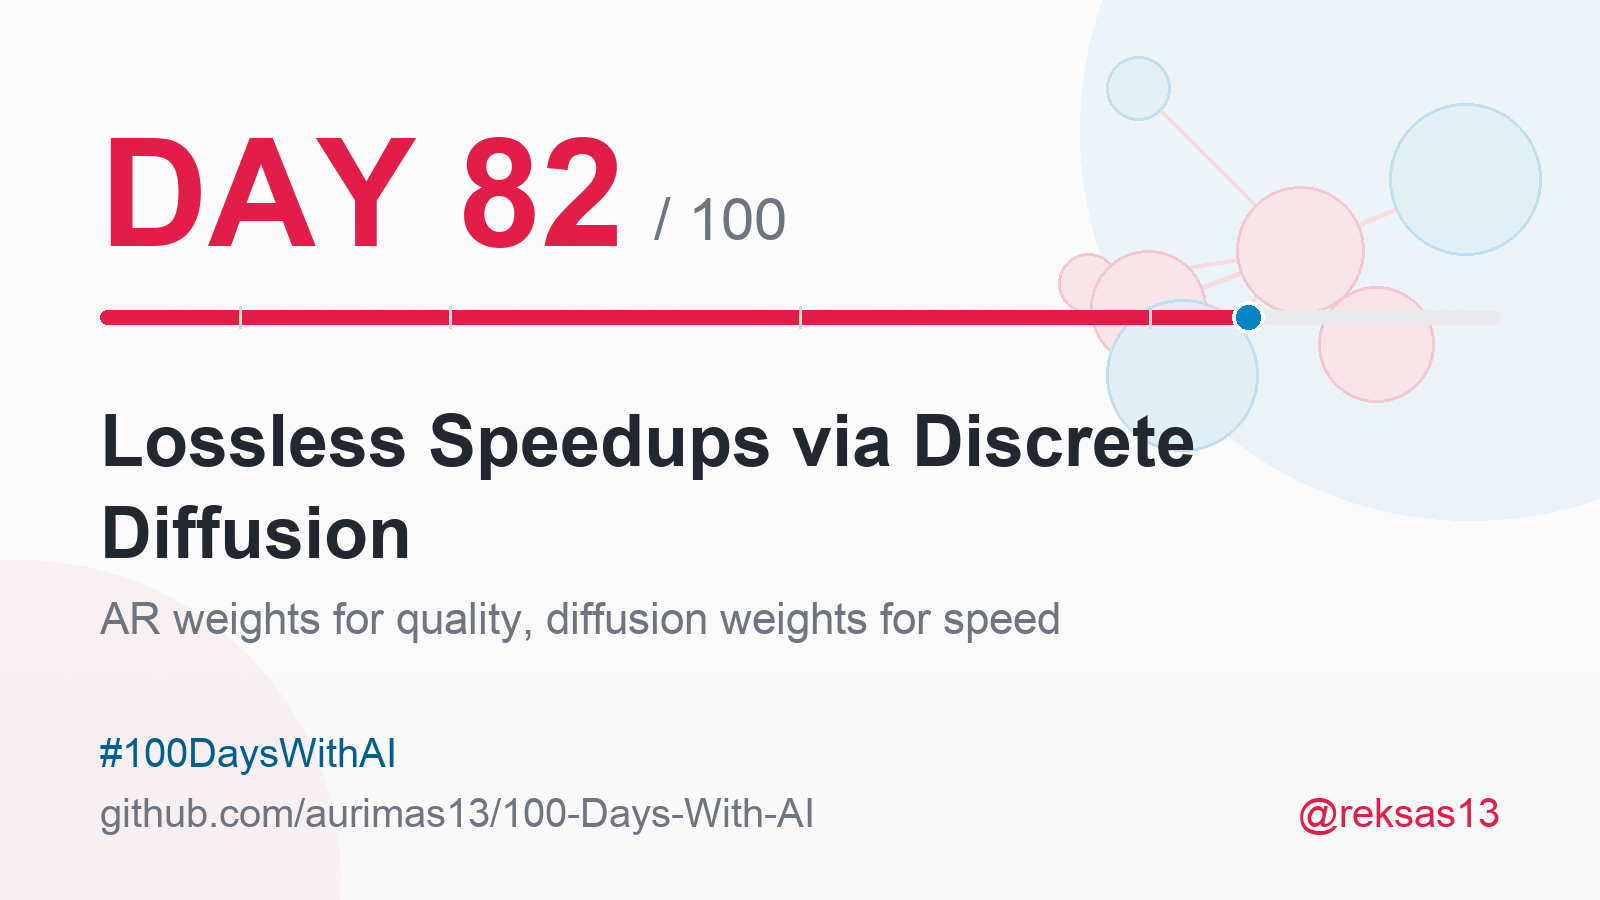
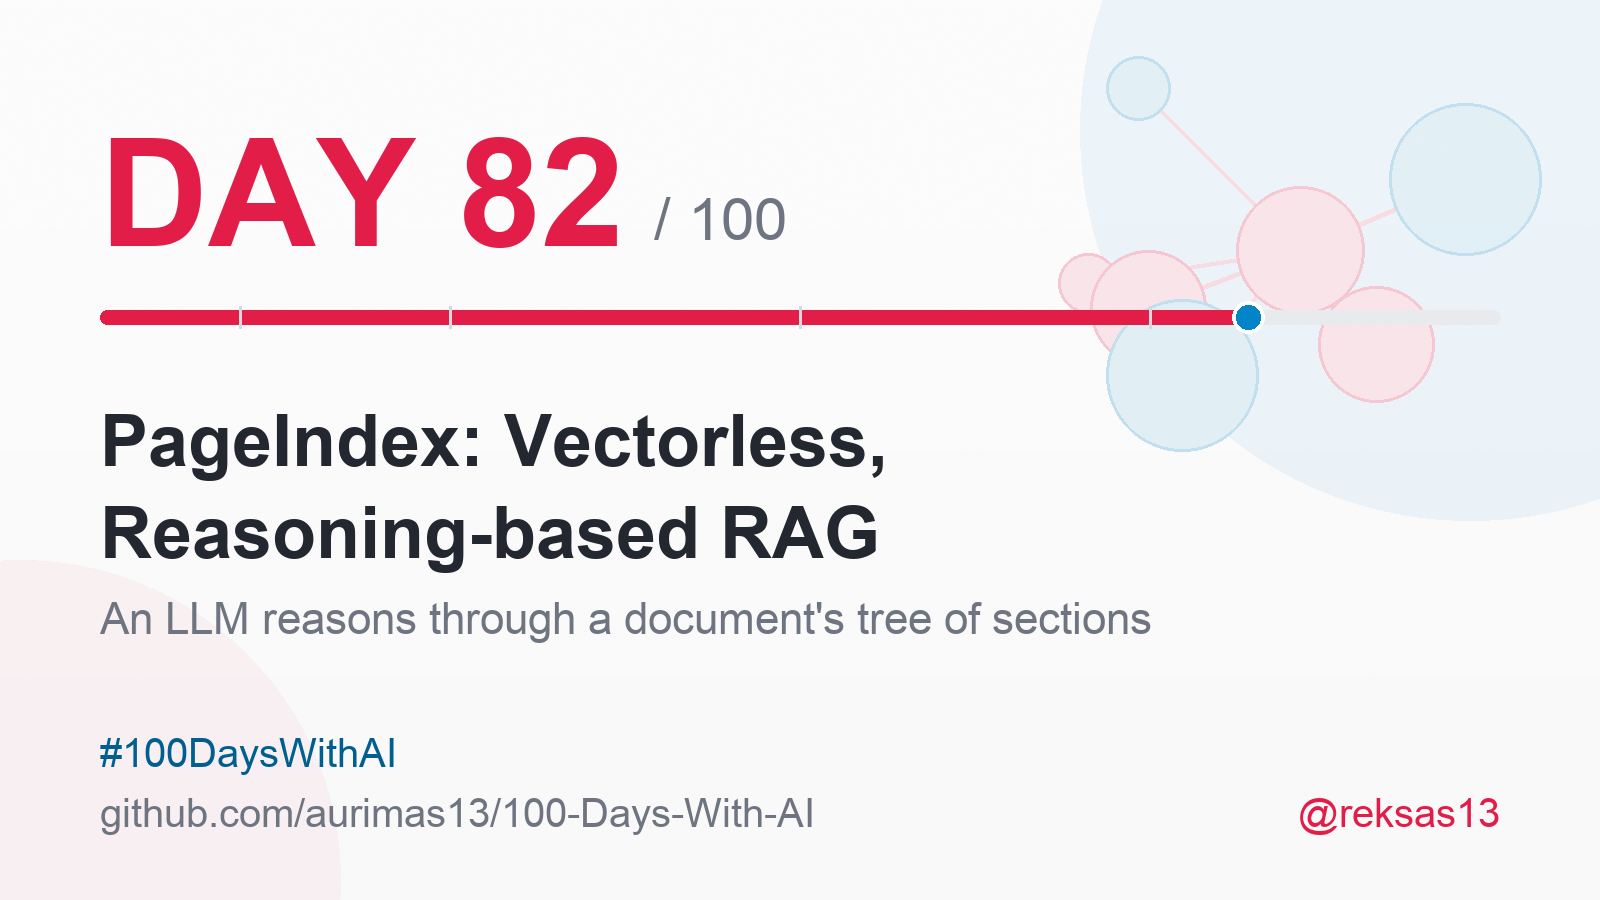
Day 82: rebuilt on PageIndex (VectifyAI), replacing Uno at the author's request

Changed region(s): [[0.0625, 0.56, 0.7188, 0.7156], [0.0625, 0.4356, 0.75, 0.5289]]

diff --git a/README.md b/README.md
@@ -177,7 +177,7 @@ for the shape of the progress table.
 | 79 | 2026-09-28 | "Em-ergence of the em-dash: a population-level rise in em-dash frequency in medRxiv preprints at the dawn of the large-language-model era" - Przemysław Czuma | Medium | A pre-registered study (OSF HFT8C) of 69,632 first-version medRxiv preprints from 2020-2025, read as raw JATS XML so the author's own typography survives, asking one binary question: does the Discussion section contain at least one em dash (U+2014)? Prevalence rose from 4.23% before ChatGPT's release (30 November 2022) to 11.58% after, +7.35 percentage points (95% CI 6.94-7.77, odds ratio 2.96), not as a step but as a take-off: near 4% through 2023, 8.0% in 2024, 20.3% in 2025; a placebo breakpoint inside the pre-LLM era and a boilerplate-section placebo both came out clean; recorded with the author's own limits that it is a population-level marker, not a per-paper detector, cannot establish causation, and that this is a v1 preprint (28 June 2026, not peer reviewed); nothing was run here | [arxiv.org](https://arxiv.org/abs/2606.29540) |
 | 80 | 2026-09-29 | "Scaling Discovery through Test-Time Communication" - Park, Kontonis, Garg, Krishnamurthy, Papailiopoulos | Advanced | A preprint testing whether identical agents with no predefined roles and no orchestrator, communicating only through a shared directory with an append-only log, beat the same agents working independently; on ARC-AGI-3 "team@3 matches best@13 and team@5 matches best@33", and a game unsolved in 64 single-agent trials is solved by team@5 65% of the time; the gains carry to research-style tasks (a new best score on polyomino packing, and a 1,957-byte MNIST classifier at 99.4% test accuracy against a 2,461-byte best-known human solution); the authors name the mechanism "verified progress sharing" and print its limits: cut to one agent's total budget, the team falls below a single agent, and on Terminal-Bench 2.0, without reliable feedback, team@2 "does not outperform pass@2"; recorded as a v1 arXiv preprint (17 September 2026, not peer reviewed), agents run in GitHub Copilot CLI with Claude and GPT models, and nothing was run here | [arxiv.org](https://arxiv.org/abs/2609.21032) |
 | 81 | 2026-09-30 | "Claude Marketplace: one place to discover plugins, agents, and services from our partners" - Anthropic | Medium | Anthropic's launch post for a single marketplace with three shelves: more than 2,000 connectors and plugins (Atlassian, Google, Microsoft, Notion, Salesforce and others), Claude-powered agents and products (CrowdStrike, Cursor, Harvey, Legora, Lovable, Snowflake) that teams can buy with "a portion of their committed Anthropic spend", and consulting partners from the Claude Partner Network (Accenture, Boston Consulting Group, Deloitte); builders get in by writing MCP connectors or Agent Skills plugins, by applying to list a product, or by joining the partner network; read as a vendor announcement with partner quotes and no pricing or usage figures, and nothing was bought or listed here | [claude.com](https://claude.com/blog/claude-marketplace) |
-| 82 | 2026-10-01 | "Unlocking Lossless Speedups in LLMs via Discrete Diffusion" - Sahoo et al. | Advanced | A preprint (17 authors; affiliations include the Institute of Foundation Models, UIUC, Cornell Tech, Harvard, Rutgers and Cerebras) proposing "diffusion-augmented LLMs": models that keep an autoregressive (AR) output distribution but split their parameters into AR weights trained with next-token prediction and "lightweight diffusion weights, trained to generate multiple tokens simultaneously", plus a sampler family, Ψ-Spec, claimed to give "lossless acceleration"; the resulting Uno models report higher throughput than speculative decoding (DFlash and Eagle3, per the project page) at every evaluated batch size and up to 3× over the base AR model; read from the abstract and project page only, since no HTML full text exists and the PDF does not extract | [arXiv](https://arxiv.org/abs/2609.04010) |
+| 82 | 2026-10-01 | "PageIndex: Vectorless, Reasoning-based RAG" - VectifyAI | Medium | An open-source (MIT) retrieval engine that replaces the vector index with "a hierarchical tree index" built from each document's layout and lets an LLM "reason its way through it", with "no vector DBs or chunking"; the README reports about $0.001 per page to index, native PDF input costing 2.1× more per query at 52 pages and 16.6× more at 420, and 98.7% on FinanceBench; read from the README only, numbers are vendor-reported and nothing was run | [GitHub](https://github.com/VectifyAI/PageIndex) |
 
 ---
 
@@ -1932,19 +1932,19 @@ source that argues the opposite.
 
 <sub>🤝 <b>AI collaboration:</b> researched, drafted and illustrated with Claude Code; reviewed, edited and approved by me before publishing - see <a href="#-ai-collaboration">AI Collaboration</a>.</sub>
 
-### Day 82 - "Unlocking Lossless Speedups in LLMs via Discrete Diffusion" (Sahoo et al.)
+### Day 82 - "PageIndex: Vectorless, Reasoning-based RAG" (VectifyAI)
 
 <img src="assets/cards/day-082.png" width="420" alt="Day 82 card">
 
-- **The problem it attacks.** LLMs "owe much of their success to next-token prediction (NTP), but their autoregressive (AR) structure requires slow, sequential token generation." One token at a time is the bottleneck.
-- **One model, two sets of weights.** The paper's "diffusion-augmented LLMs" define "an AR model distribution while using diffusion to draw multiple tokens in parallel from that distribution". AR weights are trained with the standard objective; "lightweight diffusion weights" are learned in "a simple Diffusion Distillation phase that adds negligible overhead to existing LLM training pipelines". The distribution stays autoregressive; only the sampling goes parallel.
-- **Two contrasts the authors draw themselves.** "Unlike speculative decoding, our method requires no separate draft model. Unlike diffusion LLMs (d-LLMs), it accelerates generation without sacrificing the quality of the underlying AR model." The samplers that do this are called Ψ-Spec.
-- **The reported results, with their hedges kept.** Uno "achieves higher throughput than leading speculative-decoding methods at every evaluated batch size" - the project page names them as DFlash and Eagle3 - "and delivers up to 3× speedups over the base AR model, including at the largest batch size supported by the device." The 8B Uno model is reported to beat the 26B DiffusionGemma and Mercury 2 "across all evaluated benchmarks in agentic tool use, coding, and long-context reasoning". Uno models "can be trained from scratch or built by augmenting existing open-weight AR LLMs", and code and checkpoints are released.
-- **What could not be checked.** Only the abstract and the project page were readable: arXiv has no HTML version of this paper and the PDF does not extract. So there are no per-benchmark scores, no ablations and no stated limitations here, and "lossless" is reported as the authors' claim, not as something verified. The project page also gives a second figure, "up to 2.5× speedup over the base AR model", without saying here how it differs from the 3×.
+- **The claim it is built on.** Vector RAG retrieves by semantic similarity, but "similarity ≠ relevance". On long professional documents, the README argues, "similarity search misses what is relevant but not similar, and returns what is similar but not relevant." Relevance, it says, "requires reasoning".
+- **Two steps instead of embeddings.** "Index: generate a tree-structure index for each document", then "Retrieve: agentically search that tree with LLM reasoning". The authors describe it as working "the way a human expert turns to and reads the right section of a long report". The tree itself "is extracted from the document layout without an LLM"; the index model only summarises and refines it, so a basic model is enough there, and the expensive model is spent on the search.
+- **What changes against vector RAG.** The README's own comparison: results that are "traceable to explicit references" rather than "vibe retrieval", and retrieval that can use "full context: conversation history, domain knowledge, etc." instead of "query embedding only". No vector database to run, and no chunking step to tune.
+- **The cost numbers, with their conditions kept.** Indexing runs "about $0.001 per page" with gpt-5.6-luna, paid once per document. Per query, handing the model the whole PDF instead costs 2.1× more at 52 pages and 16.6× more at 420 (gpt-5.6-sol, prompt caching excluded, and only on documents where both routes gave the same answer); at 805 pages the PDF no longer fits in the context window at all.
+- **What could not be checked.** The headline "98.7% accuracy on FinanceBench" is the vendor's own figure: it links to Vectify's Mafin 2.5 write-up, and vector RAG's 50% appears only in the chart. I read the README, not the evaluation repo or the blog, and ran nothing. The open-source version handles text-based PDFs; OCR, image understanding and the MCP server are Cloud-only.
 
-**Why it matters:** Speed is where inference cost lives, and the usual trade is quality for speed: smaller models, quantisation, or diffusion LLMs that generate in parallel but lose some of what the autoregressive model knew. This paper claims to refuse that trade by construction - the AR distribution is kept and only the way tokens are drawn from it changes. The batch-size detail is the part to watch. Many decoding tricks shine on a single request and fade under heavy batching, when the hardware is already busy. A method that still wins at the largest batch the device supports would matter for anyone serving models at scale, which is exactly why it needs independent checking. With code and checkpoints public, it can be checked.
+**Why it matters:** Most RAG pipelines are a stack of tuning knobs - chunk size, overlap, embedding model, top-k - and when an answer is wrong it is hard to say which knob failed. PageIndex swaps that for something closer to how people actually use a long document: look at the structure, pick a section, read it, go back if it was the wrong one. Every answer then points at a place in the document, which is what auditors, lawyers and analysts need before they trust it. The trade is that retrieval is now LLM reasoning, so the quality and the cost of the search ride on the chat model rather than on a cheap vector lookup.
 
-**What I learned/tried:** The chemist in me read this as a catalyst: a catalyst speeds up a reaction without moving its equilibrium, and that is precisely the promise of "lossless" here - same distribution, faster route to it. That also told me what to ask of it: a catalyst claim is only as good as the proof that the equilibrium really did not shift, and the abstract states the claim without showing that proof. I read the arXiv abstract and the project page; the full paper was not readable and nothing was run for this entry.
+**What I learned/tried:** As a chemist I never searched a handbook by similarity. I went to the index, found the chapter, then the table, and if the numbers looked wrong I knew exactly where they came from. That is the intuition here, and it made the hidden cost of vector RAG clear to me: chunking cuts a document's own structure into pieces, and similarity search then has to find its way back without it. I read the README only; I have not installed PageIndex or tested it on my own documents yet.
 
 <sub>🤝 <b>AI collaboration:</b> researched, drafted and illustrated with Claude Code; reviewed, edited and approved by me before publishing - see <a href="#-ai-collaboration">AI Collaboration</a>.</sub>
 
